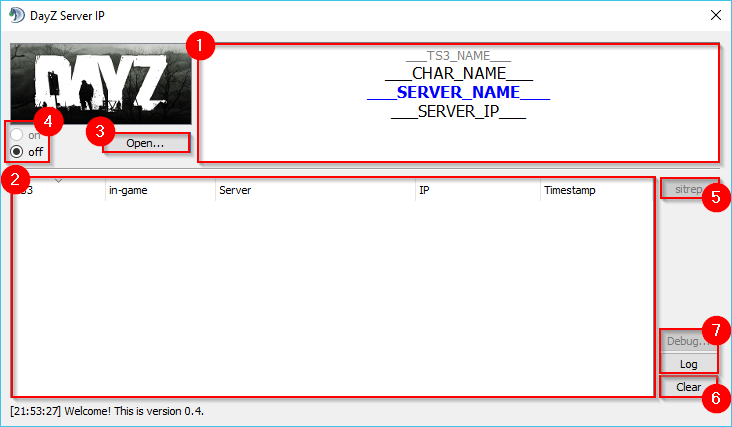
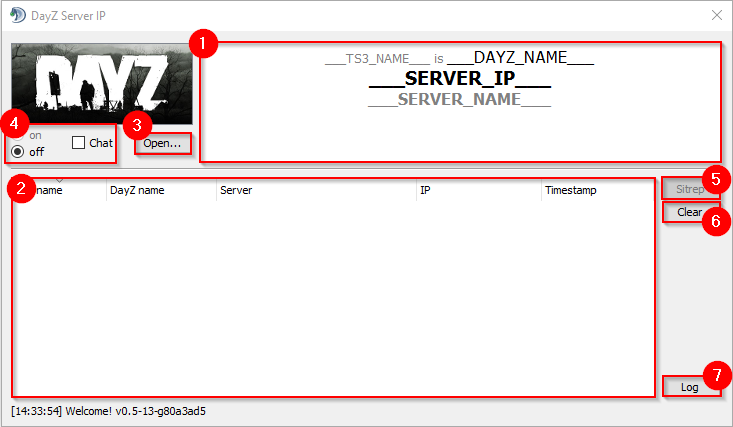
Update to reflect 0.6 release

Changed region(s): [[0.0, 0.0, 1.0, 1.0], [0.0, 0.0, 0.1503, 0.0609]]

diff --git a/doc/MANUAL.md b/doc/MANUAL.md
@@ -21,6 +21,8 @@ Just to make sure there's no misunderstanding: you and all your friends need to 
 (If it did, that would be real magic!)
 
 ## Install plugin
+:warning: __not updated yet to reflect myteamspeak.com__
+
 You can choose to install the plugin manually (download the `.zip`) or automatically (download the `.ts3_plugin`).
 
 ### automatic installation
@@ -56,19 +58,22 @@ This is what it looks like on its first start.
 
 ## Description
 
-Most of the upper half of the window is the "local info" section __(1)__. This is where your TS3 name, in-game name, server name and IP are shown. The lower half is the "remote info" section __(2)__. It shows everybody else's in-game name, server name and server IP along with a timestamp to indicate when the last update was received.
+Most of the upper half of the window is the "player" section __(1)__. This is where your TS3 name, DayZ character name, server name and IP are shown. The lower half is the "player list" section __(2)__. It shows everybody else's TS3 name, DayZ character name etc. along with a timestamp to indicate when the last update was received.
 
 ![alt-text](png/main_window_init_annotated.png)
 
-The buttons __(3)__ and __(4)__ are to select your `.DayzProfile` file and to turn this thing on and off. `on` __(4)__ means that your data will be sent to other clients in your TeamSpeak channel. It's disabled until you have chosen a valid `.DayZProfile` with the `Open...` button __(3)__. While the plugin will remember your profile from now on, it'll always start in `off` mode __(4)__ on purpose.
+The buttons __(3)__ and __(4)__ are to select your `.DayzProfile` file and to turn this thing on and off. `on` __(4)__ means that your data will be sent to other clients in your TeamSpeak channel. It's disabled until you have chosen a valid `.DayZProfile` with the `Open...` button __(3)__. While the plugin will remember your profile from now on, it'll always start in `off` mode __(4)__ on purpose.  
+You cannot see the data that it transmitted between plugins. But you can enable the `Chat` checkbox to also send this data as text message to the channel's chat.
 
-The "remote info" section __(2)__ gets updated automatically whenever somebody joins a server. That also means that there won't be any updates in between, while everyone is playing. So if you're late to the party and everybody else has already joined a server, you'll have missed all those initial updates - and that's not good, is it? That's what the `sitrep` button __(5)__ is there for. You can manually request an update message from all other clients to get you started.
+The "player list" section __(2)__ gets updated automatically whenever somebody joins a DayZ server. That also means that there won't be any updates in between, while everyone is playing. So if you're late to the party and everybody else has already joined a server, you'll have missed all those initial updates - and that's not good, is it? That's what the `Sitrep` button __(5)__ is there for. You can manually request a situation report from all other clients to get you updated.
 
 The `Clear` button __(6)__ is hopefully self-explanatory, it gets rid of all the data in the "remote info" __(2)__ section.
 
-The `Debug...` and `Log` buttons __(7)__ are there to help me with debugging.
+The `Log` button __(7)__ is there to quickly open TeamSpeak's logfile, this helps with debugging.
 
 # How does this work?
 It's not magic, that's for sure!
 
-Whenever there are changes to your `.DayZProfile` file, the plugin gathers server IP, server name and in-game name from it and sends a text message to your current channel in TeamSpeak. Those messages are plain text messages (you could even type them in yourself), but have a specific format so that the plugin can pick up on them. Pretty simple, eh? :wink:
+Whenever there are changes to your `.DayZProfile` file, the plugin gathers server IP, server name and character name from it and sends an internal (as in: invisible) message to your current channel in TeamSpeak. All clients with this plugin process this message and use it to update the "player list" __(2)__.
+
+No tricks are used; there is no interference with BattlEye, VAC, ... whatever. You don't need to take my word for it, the sourcecode is available for a reason.
